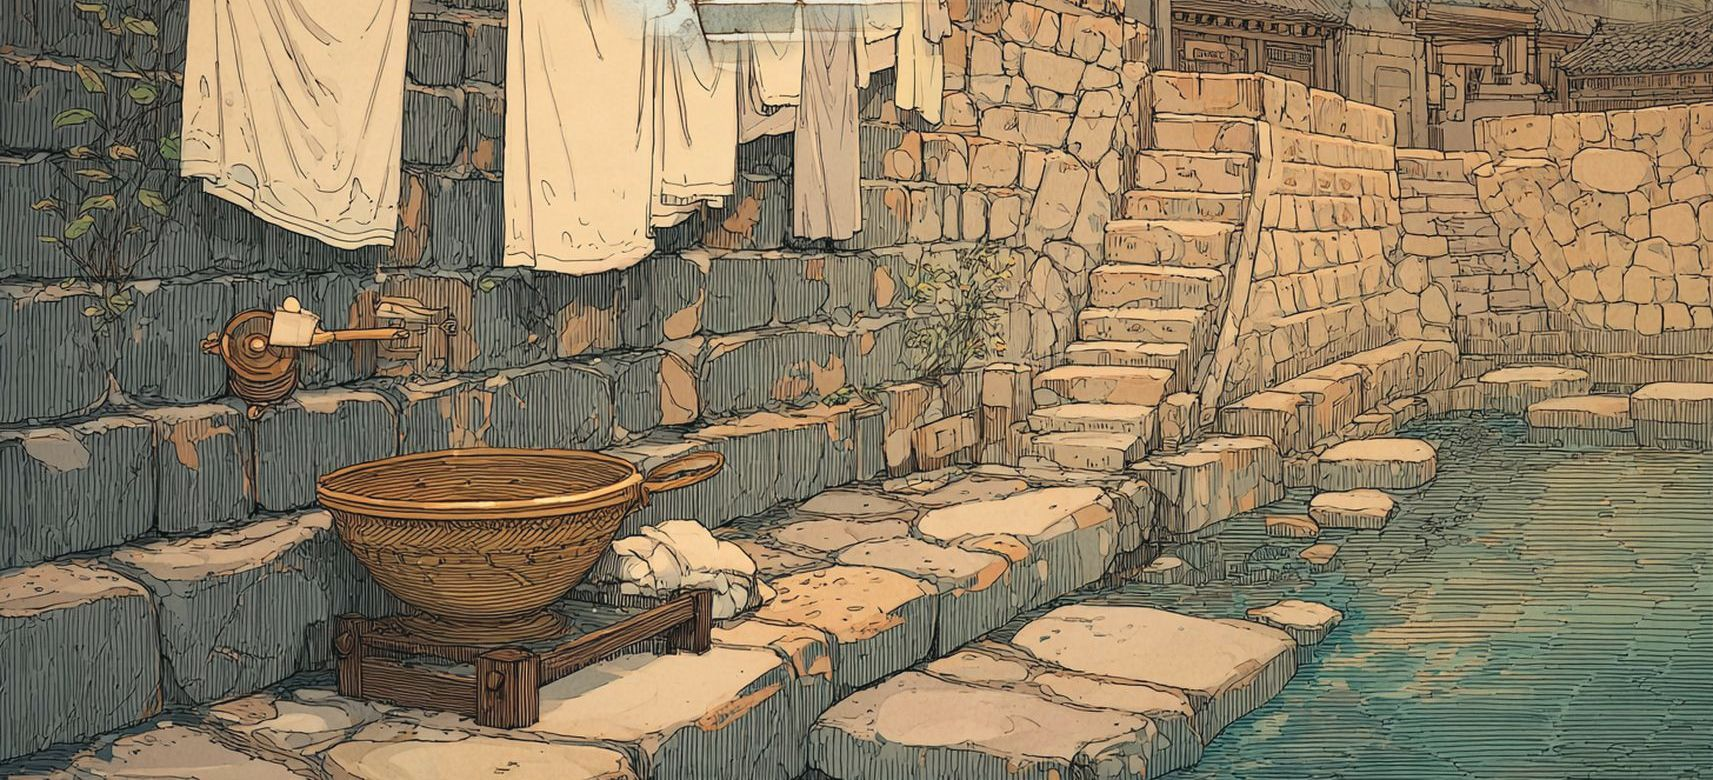
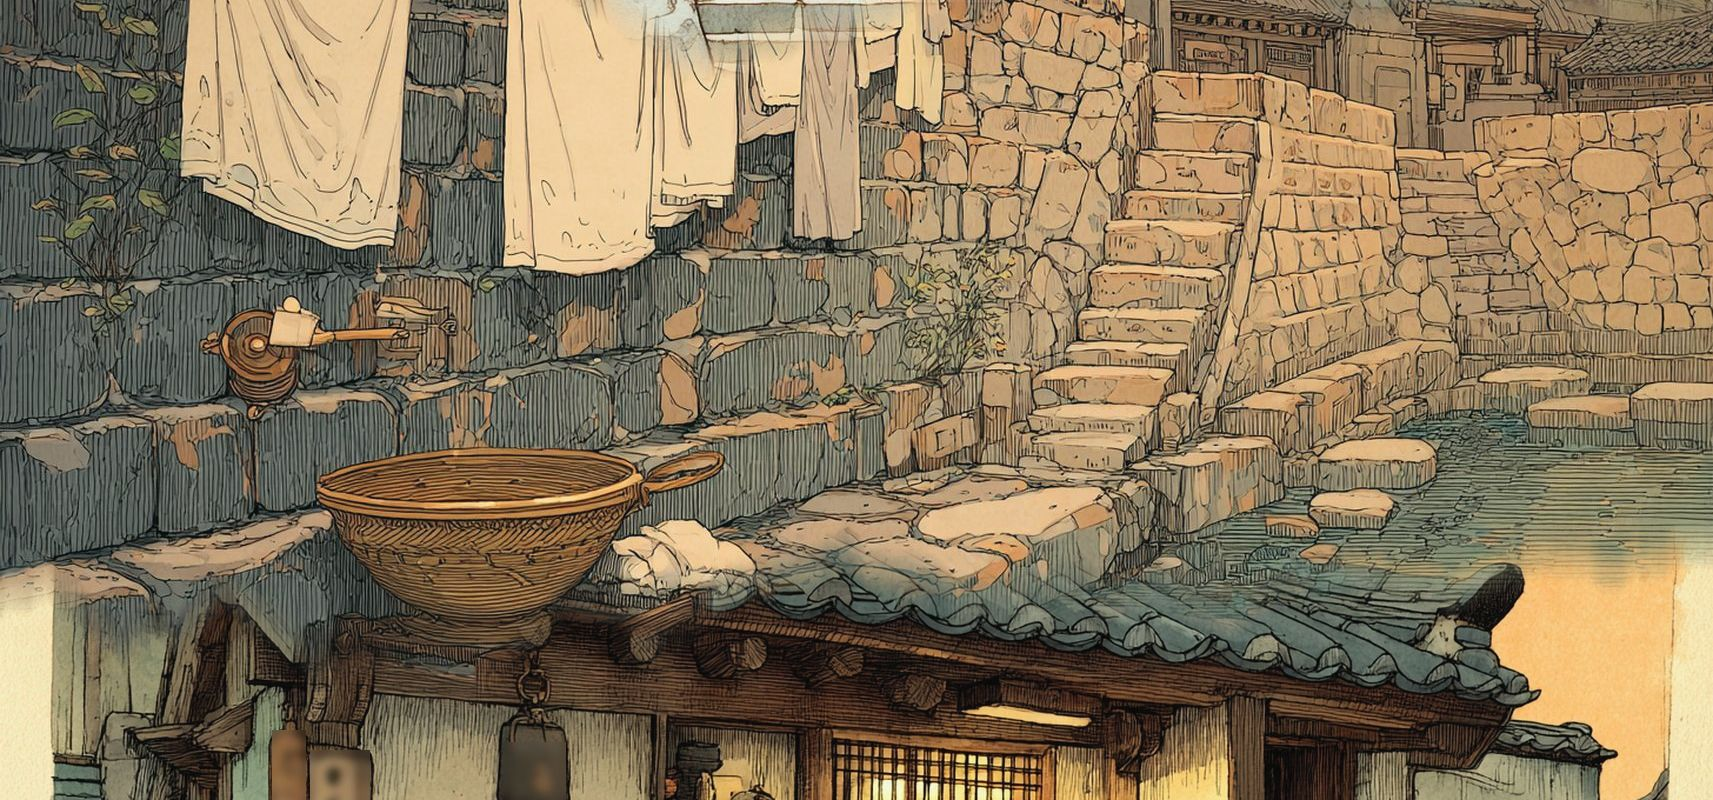
시안: 산책길 아래로 설렁탕집·다방·한강 이어 붙임, 장소별 몸짓 추가
Claude-Session: https://claude.ai/code/session_01X1y5x5ur2CZT5SHiYxRsCA

diff --git a/proto/road/index.html b/proto/road/index.html
@@ -118,14 +118,17 @@ h1 .sl{border-width:3px}
 var $=function(i){return document.getElementById(i)};
 var reduce=matchMedia('(prefers-reduced-motion: reduce)').matches;
 /* ── 배경: 한 장으로 이어 붙인 길(타일) ── */
-var TILES=[[0,0,1400,960],[1400,0,1400,960],[2800,0,1400,960],[4200,0,1400,960],[5600,0,733,960],[6333,0,1713,800],[6333,800,1713,800],[6333,1600,1713,780]];
-var WW=8046,WH=2380,COLX=6333,COLW=1713;
+var TILES=[[0,0,1400,960],[1400,0,1400,960],[2800,0,1400,960],[4200,0,1400,960],[5600,0,733,960],[6333,0,1713,800],[6333,800,1713,800],[6333,1600,1713,800],[6333,2400,1713,800],[6333,3200,1713,800],[6333,4000,1713,360]];
+var WW=8046,WH=4360,COLX=6333,COLW=1713;
 var world=$('world');
 world.innerHTML=TILES.map(function(t,i){return '<img class="bgt" src="t'+i+'.jpg" alt="" style="position:absolute;left:'+t[0]+'px;top:'+t[1]+'px;width:'+t[2]+'px;height:'+t[3]+'px">'}).join('');
 /* ── 길(ㄱ): 종로를 따라 동쪽 → 모퉁이 축대에 뛰어올라 → 아래 계단으로 뛰어내려 → 청계천 ── */
 var GY=858;
 var V=[ {x:200,y:GY,s:1},{x:6923,y:GY,s:1,t:'walk'},{x:7290,y:664,s:.86,t:'jump',h:110},{x:7033,y:1180,s:.82,t:'jump',h:70,cine:1},
-        {x:7023,y:1300,s:.92,t:'walk'},{x:7073,y:1450,s:1.06,t:'walk'},{x:7173,y:2000,s:1.15,t:'jump',h:80,cine:1},{x:7183,y:2192,s:1.18,t:'walk'} ];
+        {x:7023,y:1300,s:.92,t:'walk'},{x:7073,y:1450,s:1.06,t:'walk'},{x:7173,y:2000,s:1.15,t:'jump',h:80,cine:1},{x:7183,y:2192,s:1.18,t:'walk'},
+        {x:7533,y:2862,s:.95,t:'jump',h:50,cine:1},{x:7093,y:2862,s:.95,t:'walk'},
+        {x:7133,y:3528,s:.9,t:'jump',h:50,cine:1},{x:7513,y:3528,s:.9,t:'walk'},
+        {x:7233,y:4240,s:.8,t:'jump',h:50,cine:1},{x:6973,y:4300,s:.82,t:'walk'} ];
 var SEG=[],TOT=0;for(var i=1;i<V.length;i++){var a=V[i-1],b=V[i],l=Math.hypot(b.x-a.x,b.y-a.y);SEG.push({a:a,b:b,l:l,s:TOT,t:b.t,h:b.h||0,cine:b.cine});TOT+=l}
 function vd(k){var d=0;for(var i=0;i<k;i++)d+=SEG[i].l;return d}
 var DC=vd(1);
@@ -144,8 +147,14 @@ var PL=[
   steps:[{p:'sitf',x:5900,y:GY,d:2000,say:'줄은 사람이 서는 것이오.'},{p:'swish',x:5900,y:GY,d:1600},{p:'loaf2',x:5900,y:GY,d:2000,say:'…아직이오?'},{p:'curl',x:5900,y:GY,d:2600}],loop:1},
  {n:0,name:'모퉁이',d:vd(2),corner:1,
   steps:[{p:'back',x:7290,y:664,d:2600,s:.86,say:'저 아래도 경성이오.'},{p:'swish',x:7290,y:664,d:1500,s:.86,f:-1},{p:'back',x:7290,y:664,d:2200,s:.86}],loop:0},
- {n:5,name:'청계천 빨래터',d:TOT,q:'빨래 위에 발자국을 찍고 갔소.',from:'빨래하던 아낙',ph:null,pc:[6583,1960,-3],
-  steps:[{p:'puddle',x:7183,y:2192,d:1900,s:1.18},{p:'basin',x:7340,y:2200,d:2100,s:1.18,say:'물은 차오.'},{p:'fish',x:7200,y:2196,d:2200,s:1.18,say:'멸치 한 줌, 받으러 가야겠소.'}],loop:1}
+ {n:5,name:'청계천 빨래터',d:vd(7),q:'빨래 위에 발자국을 찍고 갔소.',from:'빨래하던 아낙',ph:null,pc:[6583,1960,-3],
+  steps:[{p:'puddle',x:7183,y:2192,d:1900,s:1.18},{p:'basin',x:7340,y:2200,d:2100,s:1.18,say:'물은 차오.'},{p:'groom',x:7183,y:2192,d:1800,s:1.18}],loop:0},
+ {n:6,name:'설렁탕집',d:vd(9),q:'배달통 위에서 내려오질 않소.',from:'설렁탕집 배달꾼',ph:null,pc:[6453,2560,-2],
+  steps:[{p:'loaf',x:7010,y:2862,d:2200,s:.95,say:'여기가 제일 따뜻하오.'},{p:'groom',x:7010,y:2862,d:1700,s:.95},{p:'sit',x:7420,y:2800,d:1900,s:.9,say:'국물 냄새가 나오.'},{p:'curl',x:7010,y:2862,d:2600,s:.95}],loop:0},
+ {n:7,name:'다방 창가',d:vd(11),q:'시인보다 오래 창밖을 보더라.',from:'다방 급사',ph:'p7.jpg',pc:[6453,3150,3],
+  steps:[{p:'back',x:7623,y:3466,d:2400,s:.85,say:'안이 더 재미있소.'},{p:'ear',x:7623,y:3466,d:1500,s:.85,f:-1},{p:'lookup',x:7623,y:3466,d:1700,s:.85,say:'비가 오오.'},{p:'back',x:7623,y:3466,d:2000,s:.85}],loop:0},
+ {n:8,name:'한강',d:TOT,q:'얼음 구멍 앞에서 내내 기다리더라.',from:'한강 얼음낚시꾼',ph:'p8.jpg',pc:[6600,3960,-3],
+  steps:[{p:'loaf',x:6990,y:4304,d:2400,s:.82,say:'기다리는 중이오.'},{p:'back',x:6990,y:4304,d:2000,s:.82},{p:'fish',x:7000,y:4306,d:2400,s:.82,say:'올라왔소. 멸치는 아니오.'},{p:'bounce',x:7000,y:4306,d:1200,s:.82}],loop:0}
 ];
 PL.forEach(function(p){if(p.d==null)p.d=p.x-200});
 /* ── 포즈 ── */
@@ -240,13 +249,13 @@ function frame(now){
   // HUD 꼬리 ㄱ
   var pr=D/TOT*100;$('hudp').setAttribute('stroke-dasharray',pr.toFixed(1)+' 100');
   var hl=48,vl=32,tl=hl+vl,dd=Math.min(1,D/DC)*hl+Math.max(0,(D-DC)/(TOT-DC))*vl;var hx=dd<hl?6+dd:54,hy=dd<hl?8:8+(dd-hl);$('hudd').setAttribute('cx',hx);$('hudd').setAttribute('cy',hy);
-  $('where').textContent=D<DC-20?'종로 · 동쪽으로 ('+Math.round(D/DC*100)+'%)':(D<TOT-200?'모퉁이에서 뛰어내려 남쪽으로':'청계천 빨래터');
+  $('where').textContent=D<DC-20?'종로 · 동쪽으로 ('+Math.round(D/DC*100)+'%)':(D<vd(7)-150?'모퉁이에서 뛰어내려 남쪽으로':D<vd(9)-150?'청계천 빨래터':D<vd(11)-150?'설렁탕집 · 밤':D<TOT-150?'다방 창가 · 비':'한강 · 자정');
   requestAnimationFrame(frame)}
 function showStop(p){var st=$('stop');if(!p){st.classList.remove('on');return}
   st.classList.toggle('np',!p.ph);if(p.ph)$('sph').src=p.ph;
   $('sname').innerHTML='<b>'+p.n+' · '+p.name+'</b>목격 엽서';
   $('sq').innerHTML='「'+p.q+'」<small> — '+p.from+'</small>';
-  var b=$('sgo');if(p.url){b.textContent='이 골목 들어가기 · 심묘의 눈 →';b.className=''}else{b.textContent=p.n===5?'여기부터 아래(설렁탕·다방·한강)는 다음 시안':'이 골목은 다음 시안에서 열려요';b.className='soon'}
+  var b=$('sgo');if(p.url){b.textContent='이 골목 들어가기 · 심묘의 눈 →';b.className=''}else{b.textContent=p.n===8?'여기서 자정 엔딩으로 (다음 시안)':'이 골목은 다음 시안에서 열려요';b.className='soon'}
   b.onclick=function(){if(p.url){stamp(p.n,true);speak('가보겠소.',900);setTimeout(function(){location.href=p.url},600)}};
   st.classList.add('on')}
 /* 입력 */
